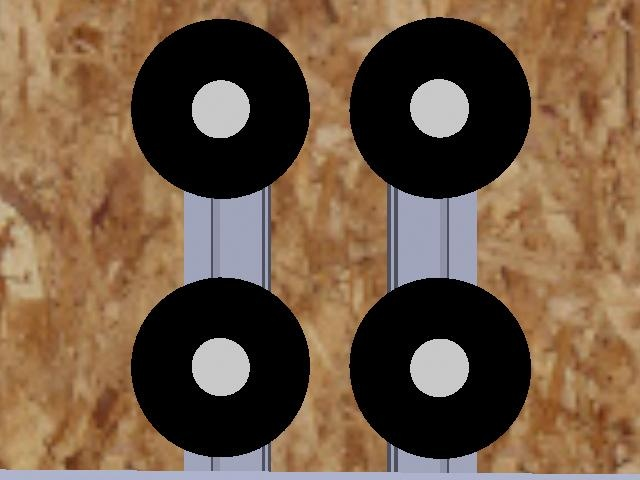
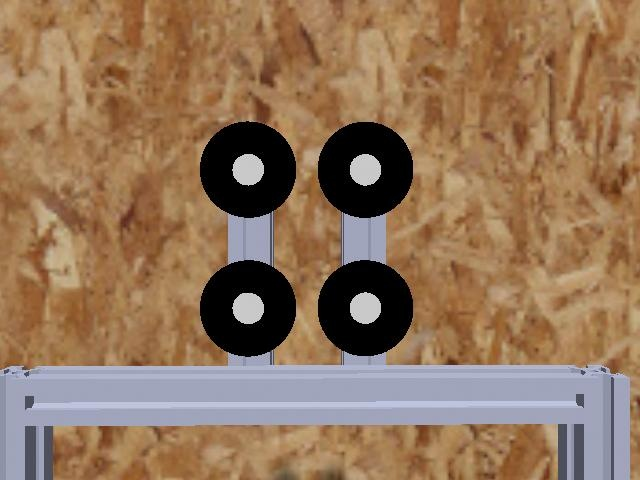
working ibvs, but markers are too close to image center

diff --git a/px4_mpvs/px4_mpvs/ib_mpvs_spacecraft.py b/px4_mpvs/px4_mpvs/ib_mpvs_spacecraft.py
@@ -98,20 +98,7 @@ class SpacecraftIBMPVS(Node):
         ).value
 
         # flattened 2d coordinates of the desired points (4x2)
-        self.desired_points = np.array(
-            [
-                220,
-                108,
-                439,
-                107,
-                220,
-                366,
-                439,
-                367,
-            ],  # top-left, top-right, bottom-left, bottom-right
-            dtype=np.int16,
-        )
-
+        self.desired_points = np.array([[247, 169], [364, 169], [247, 307], [364, 307]]).flatten()
         # Get mode; rate, wrench, direct_allocation
         self.mode = self.declare_parameter("mode", "direct_allocation").value
         self.sitl = True
@@ -168,13 +155,7 @@ class SpacecraftIBMPVS(Node):
         self.markers_detected = False
         self.controller_loaded = False
 
-        if self.servo_mode == "pbvs":
-            self.model = SpacecraftVSModel(mode="pbvs")
-            self.mpc = SpacecraftVSMPC(
-                self.model,
-                mode="pbvs",
-            )
-            self.controller_loaded = True
+
 
         self.tf_buffer = Buffer()
         self.tf_listener = TransformListener(self.tf_buffer, self)
@@ -392,7 +373,7 @@ class SpacecraftIBMPVS(Node):
 
     def cmdloop_callback(self):
 
-        #TODO: change wall into 4 big points and test the normal IBVS//
+        # TODO: change wall into 4 big points and test the normal IBVS//
 
         if (
             self.servo_mode == "ibvs"
@@ -401,6 +382,10 @@ class SpacecraftIBMPVS(Node):
         ):
             self.model = SpacecraftVSModel(mode="ibvs")
             self.mpc = SpacecraftVSMPC(self.model, mode="ibvs", Z=self.Z)
+            self.controller_loaded = True
+        elif self.servo_mode == "pbvs" and not self.controller_loaded:
+            self.model = SpacecraftVSModel(mode="pbvs")
+            self.mpc = SpacecraftVSMPC(self.model, mode="pbvs")
             self.controller_loaded = True
 
         if self.controller_loaded:
@@ -488,9 +473,9 @@ class SpacecraftIBMPVS(Node):
                 print(f"Feature current: {feature_current}")
                 print(f"Feature desired: {feature_desired}")
                 print(f"Feature errors: {error}")
-                L = calc_interaction_matrix(feature_current, self.Z)
+                # L = calc_interaction_matrix(feature_current, self.Z)
 
-                print(f"Interaction matrix L: {L}")
+                # print(f"Interaction matrix L: {L}")
 
             # Colect data
             idx = 0

diff --git a/px4_mpvs/px4_mpvs/controllers/spacecraft_vs_mpc.py b/px4_mpvs/px4_mpvs/controllers/spacecraft_vs_mpc.py
@@ -116,8 +116,8 @@ class SpacecraftVSMPC:
         # set cost
         Q_mat = np.diag(
             [
-                *[5e1] * 3,  # Position weights (x, y, z)
-                *[1e1] * 3,  # Velocity weights (vx, vy, vz)
+                *[5e1] * 3,  # Position weights (x, y, z) # 5e1
+                *[1e1] * 3,  # Velocity weights (vx, vy, vz) 
                 8e3,  # Quaternion scalar part, 8e3 default
                 *[1e1] * 3,  # angular vel part, (ωx, ωy, ωz)
             ]
@@ -178,13 +178,21 @@ class SpacecraftVSMPC:
             Q_mat = np.diag(
                 [
                     *[0] * 3,  # Position weights (x, y, z)
-                    *[5e4] * 3,  # Velocity weights (vx, vy, vz) # 5e1
+                    *[2e3] * 3,  # Velocity weights (vx, vy, vz) # 5e1
                     0,  # Quaternion scalar part, 8e3 default
-                    *[5e4] * 3,  # angular vel (ωx, ωy, ωz) # 5e1
-                    *[5e-2] * 8,  # Image feature weights
+                    *[5e3] * 3,  # angular vel (ωx, ωy, ωz) # 5e1
+                    *[5e-3] * 8,  # Image feature weights
                 ]
             )
             Q_e = 20 * Q_mat
+            Q_e[9:,9:] = 1e2 * Q_mat[9:,9:]
+
+            # set bounds for image features (x coordinates)
+            ocp.constraints.idxbx = np.array(
+                [13, 15, 17, 19]
+            )
+            ocp.constraints.lbx = np.array([self.s_min] * 4)
+            ocp.constraints.ubx = np.array([self.s_max] * 4)
 
         ocp.model.cost_expr_ext_cost = (
             x_error.T @ Q_mat @ x_error + u_error.T @ R_mat @ u_error
@@ -212,12 +220,7 @@ class SpacecraftVSMPC:
             [self.vel_limit] * 6
         )
 
-        # set bounds for image features (x coordinates)
-        ocp.constraints.idxbx = np.array(
-            [13, 15, 17, 19]
-        )
-        ocp.constraints.lbx = np.array([self.s_min] * 4)
-        ocp.constraints.ubx = np.array([self.s_max] * 4)
+        
 
         # set options
         ocp.solver_options.qp_solver = "PARTIAL_CONDENSING_HPIPM"

diff --git a/px4_mpvs/px4_mpvs/marker_detector_blob.py b/px4_mpvs/px4_mpvs/marker_detector_blob.py
@@ -6,7 +6,10 @@ from itertools import combinations, permutations
 import os
 import matplotlib
 
-# matplotlib.use("TkAgg")  # Use a non-interactive backend
+matplotlib.use("TkAgg")  # Use a non-interactive backend
+
+
+img_path = "/home/tafarrel/discower_ws/src/px4_mpvs/px4_mpvs/resource/docked_image.jpg"
 
 
 class CircleFeatureDetector:
@@ -115,13 +118,10 @@ class CircleFeatureDetector:
             hsv, (0, 0, 0), (200, 255, 40)  # lower-H, lower-S, **very low V**
         )  # upper-H, upper-S, **dark V only**
 
-        # contours, _ = cv2.findContours(mask, cv2.RETR_EXTERNAL, cv2.CHAIN_APPROX_SIMPLE)
-        # mask_filled = np.zeros_like(mask)
-        # for c in contours:
-        #     cv2.drawContours(mask_filled, [c], -1, 255, -1)  # -1 = filled
-
         kernel = cv2.getStructuringElement(cv2.MORPH_ELLIPSE, (3, 3))
         mask = cv2.morphologyEx(mask, cv2.MORPH_OPEN, kernel, iterations=2)
+
+        # cv2.imshow("Morphology Mask", mask)
 
         kp = self.detector.detect(mask)
         img_with_keypoints = cv2.drawKeypoints(
@@ -367,3 +367,21 @@ class CircleFeatureDetector:
         """Clean up OpenCV windows when object is destroyed"""
         if self.visualize:
             cv2.destroyAllWindows()
+
+
+if __name__ == "__main__":
+    detector = CircleFeatureDetector(
+        min_circle_radius=5,
+        max_circle_radius=50,
+        circularity_threshold=0.8,
+        match_threshold=10.0,
+        visualize=True,
+        debug=True,
+    )
+
+    image = cv2.imread(img_path)
+    cv2.imshow("Input Image", image)
+    
+    centroids, _ = detector.detect(image)
+    cv2.waitKey(0)
+    print(centroids)

diff --git a/px4_mpvs/px4_mpvs/models/spacecraft_vs_model.py b/px4_mpvs/px4_mpvs/models/spacecraft_vs_model.py
@@ -156,9 +156,20 @@ class SpacecraftVSModel:
             # v_cam = Rbc*(v_base + w_base x r_bc)
             # no rotation in the camera frame, Rbc = I
             r_bc = cs.DM([0.09, 0.0, 0.51])  # camera translation from base frame
-            v_c = v + cs.cross(w, r_bc)
-            w_c = w
-            twist = cs.vertcat(v_c, w_c)  # 6x1
+            v_cam = v - cs.cross(w, r_bc)
+            w_cam = w
+            v_standard = cs.vertcat(
+            -v_cam[1],  # X_std = -Y_your (right = -left)
+            -v_cam[2],  # Y_std = -Z_your (down = -up)
+             v_cam[0]   # Z_std = X_your (forward = forward)
+        )
+        
+            w_standard = cs.vertcat(
+                -w_cam[1],  # Roll around X_std = -pitch around Y_your
+                -w_cam[2],  # Pitch around Y_std = -yaw around Z_your  
+                w_cam[0]   # Yaw around Z_std = roll around X_your
+            )
+            twist = cs.vertcat(v_standard, w_standard)  # 6x1
             s_dot_vec = cs.mtimes(L, twist)  # 8x1
             # h_k = s + (s_dot * self.dt)  # 2x4 + 8x1
             return s_dot_vec

diff --git a/px4_mpvs/px4_mpvs/mpvs_spacecraft.py b/px4_mpvs/px4_mpvs/mpvs_spacecraft.py
@@ -88,7 +88,7 @@ class SpacecraftMPVS(Node):
         self.camera_frame_id = self.declare_parameter('camera_frame_id', 'camera_link').value
 
         # Get mode; rate, wrench, direct_allocation
-        self.mode = self.declare_parameter('mode', 'wrench').value
+        self.mode = self.declare_parameter('mode', 'direct_allocation').value
         self.sitl = True
 
         # Get namespace
@@ -455,7 +455,7 @@ class SpacecraftMPVS(Node):
                            self.vehicle_angular_velocity[1],
                            self.vehicle_angular_velocity[2]]).reshape(13, 1)
             ref = np.concatenate((self.setpoint_position,       # position
-                                  np.zeros(3),                  # velocity
+                                  np.array([0,0.5,0]),                  # velocity
                                   self.setpoint_attitude,       # attitude
                                   np.zeros(3),                  # angular velocity
                                   np.zeros(4)), axis=0)         # inputs reference (u1, ..., u4) for 2D platform

diff --git a/px4_mpvs/px4_mpvs/test/test_save_cam_image.py b/px4_mpvs/px4_mpvs/test/test_save_cam_image.py
@@ -31,7 +31,7 @@ class SaveImage(Node):
             np_arr = np.frombuffer(msg.data, np.uint8)
             cv_image = cv2.imdecode(np_arr, cv2.IMREAD_COLOR)
             cv2.imwrite(
-                f"/home/tafarrel/discower_ws/src/px4_mpvs/px4_mpvs/px4_mpvs/{filename}.jpg",
+                f"/home/tafarrel/discower_ws/src/px4_mpvs/px4_mpvs/resource/{filename}.jpg",
                 cv_image,
             )
         except Exception as e:
